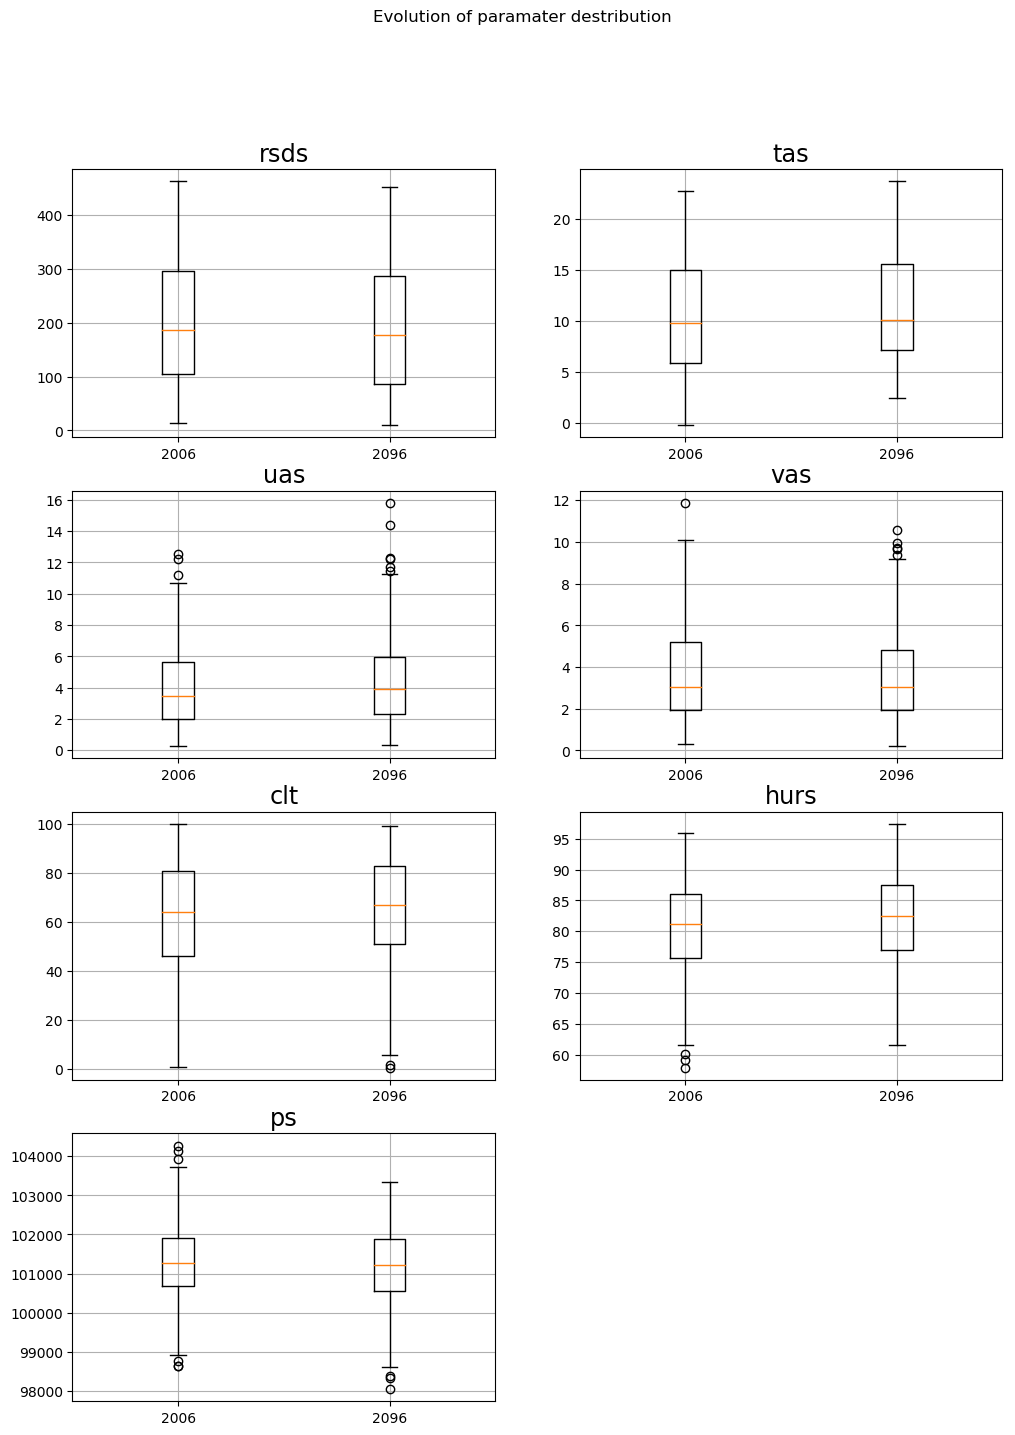
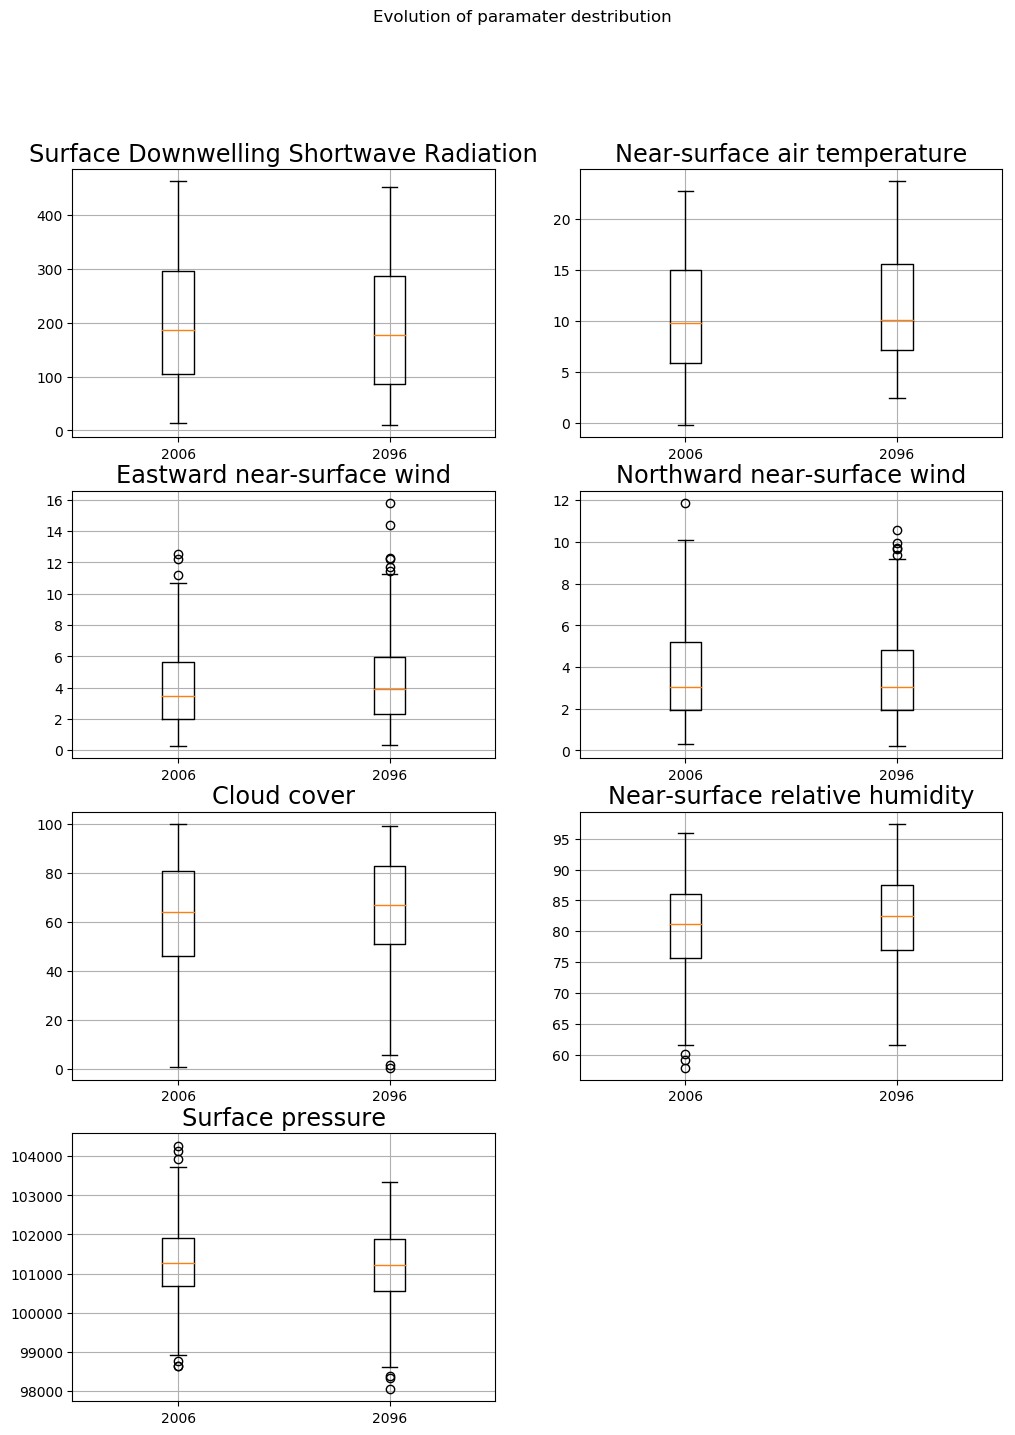
Friday morning update on my pre-analysis (now with seasons)

diff --git a/Simon/Pre_analysis.py b/Simon/Pre_analysis.py
@@ -23,15 +23,45 @@ def YearlyAverage(Data):
             st = st+365
         AvDataLst.append(SubAv)
     AvData = np.stack(AvDataLst,axis = 0)
-    print(st)
     return AvData
+
 def DevideInSeasons(Data):
     Winter = []
     Spring = []
     Summer = []
+    Autumn = []
+    
+    st = 0
+    for i in range(91):
+        if i%4 == 2:
+            Winter.append(Data[st:st+80,:,:,:,:])
+            Spring.append(Data[st+80:st+172,:,:,:])
+            Summer.append(Data[st+172:st+266,:,:,:])
+            Autumn.append(Data[st+266:st+356,:,:,:])
+            Winter.append(Data[st+356:st+366,:,:,:])
+            st = st + 366
+        else:
+            Winter.append(Data[st:st+79,:,:,:,:])
+            Spring.append(Data[st+79:st+171,:,:,:])
+            Summer.append(Data[st+171:st+265,:,:,:])
+            Autumn.append(Data[st+265:st+355,:,:,:])
+            Winter.append(Data[st+355:st+365,:,:,:])
+            st = st + 365
+    Wi = np.concatenate(Winter,axis = 0)
+    Sp = np.concatenate(Spring,axis = 0)
+    Su = np.concatenate(Summer,axis = 0)
+    Au = np.concatenate(Autumn,axis = 0)
+    return [Wi,Sp,Su,Au]
+
     
 var= 1
-VARIABLES = ['rsds','tas','uas','vas','clt','hurs','ps']
+VARIABLES = ['Surface Downwelling Shortwave Radiation',
+             'Near-surface air temperature',
+             'Eastward near-surface wind',
+             'Northward near-surface wind',
+             'Cloud cover',
+             'Near-surface relative humidity',
+             'Surface pressure']
 """
 0 rsds - Surface Downwelling Shortwave Radiation
 1 tas - near surface air temperature
@@ -72,36 +102,74 @@ MODELS = ['CNRM-CERFACS-CNRM-CM5','ICHEC-EC-EARTH', 'IPSL-IPSL-CM5A-MR','MOHC-Ha
 exp = 0
 EXPERIMENTS = ['rcp45','rcp85']
 
+
 YA = YearlyAverage(Data)
-fig = plt.figure(1, figsize=(12,12))
-ax1 = fig.add_subplot(211)
-ax2 = fig.add_subplot(212)
-for i in range(5):
-    ax1.plot(list(range(2006,2097)),YA[:,var,st,i,0], 'o', label = MODELS[i])
-    ax2.plot(list(range(2006,2097)),YA[:,var,st,i,1], 'o', label = MODELS[i])
-ax1.legend()
-ax1.set_xlabel('time [years]')
-ax2.set_xlabel('time [years]')
-plt.subplot(211)
-plt.grid(True)
-plt.title(EXPERIMENTS[0])
-plt.subplot(212)
-plt.grid(True)
-plt.title(EXPERIMENTS[1])
-fig.suptitle('Temperature evolution according to different models')
-
-fig.savefig('DATA_EXPLORATION_temperature_evolution_models.png', bbox_inches='tight')
-
-fig = plt.figure(2, figsize = (12,16))
-fig.suptitle('Evolution of paramater destribution')
-
-
-for i in range(7):
-    ax = fig.add_subplot(4,2,i+1)
+[Wi,Sp,Su,Au] = DevideInSeasons(Data)
+PLT = True
+if PLT == True:
+    fig = plt.figure(1, figsize=(12,12))
+    ax1 = fig.add_subplot(211)
+    ax2 = fig.add_subplot(212)
+    for i in range(5):
+        ax1.plot(list(range(2006,2097)),YA[:,var,st,i,0], 'o', label = MODELS[i])
+        ax2.plot(list(range(2006,2097)),YA[:,var,st,i,1], 'o', label = MODELS[i])
+    ax1.legend()
+    ax1.set_xlabel('time [years]')
+    ax2.set_xlabel('time [years]')
+    plt.subplot(211)
     plt.grid(True)
-    ax.boxplot([Data[0:365,i,st,mdl,exp],Data[-365:,i,st,mdl,exp]],labels = [2006, 2096])
-    plt.title(VARIABLES[i],size = 'xx-large')
-fig.savefig('DATA_EXPLORATION_evolution_spread.png', bbox_inches='tight')
+    plt.title(EXPERIMENTS[0])
+    plt.subplot(212)
+    plt.grid(True)
+    plt.title(EXPERIMENTS[1])
+    fig.suptitle('Temperature evolution according to different models')
+    
+    fig.savefig('DATA_EXPLORATION_temperature_evolution_models.png', bbox_inches='tight')
+    
+    fig = plt.figure(2, figsize = (12,16))
+    fig.suptitle('Evolution of paramater destribution')
+    
+    
+    for i in range(7):
+        ax = fig.add_subplot(4,2,i+1)
+        plt.grid(True)
+        ax.boxplot([Data[0:365,i,st,mdl,exp],Data[-365:,i,st,mdl,exp]],labels = [2006, 2096])
+        plt.title(VARIABLES[i],size = 'xx-large')
+    fig.savefig('DATA_EXPLORATION_evolution_spread.png', bbox_inches='tight')
+    
+    
+    fig = plt.figure(3, figsize = (30,16))
+    fig.suptitle('Evolution of paramater destribution per season',size = 'xx-large')
+
+    LAB = ['Winter 2006','Winter 2096',
+           'Spring 2006','Sprint 2096',
+           'Summer 2006','Summer 2096',
+           'Autumn 2006','Autumn 2096']
+    for i in range(7):
+        ax = fig.add_subplot(4,2,i+1)
+        DAT = [Wi[:91,i,st,mdl,exp],Wi[-91:,i,st,mdl,exp],
+               Sp[:91,i,st,mdl,exp],Sp[-91:,i,st,mdl,exp],
+               Su[:91,i,st,mdl,exp],Su[-91:,i,st,mdl,exp],
+               Au[:91,i,st,mdl,exp],Au[-91:,i,st,mdl,exp]]
+        plt.title(VARIABLES[i],size = 'xx-large')
+        plt.grid(True)
+        ax.boxplot(DAT,labels = LAB)
+    fig.savefig('DATA_EXPLORATION_evolution_season_spread.png', bbox_inches='tight')
+    
+    
+    fig = plt.figure(4, figsize = (16,16))
+    fig.suptitle('Paramater destribution per season',size = 'xx-large')
+    LAB = ['Winter','Spring ','Summer','Autumn']
+    
+    for i in range(7):
+        ax = fig.add_subplot(4,2,i+1)
+        DAT = [Wi[:,i,st,mdl,exp],Sp[:,i,st,mdl,exp],
+               Su[:,i,st,mdl,exp],Au[:,i,st,mdl,exp]]
+        plt.title(VARIABLES[i],size = 'xx-large')
+        plt.grid(True)
+        ax.boxplot(DAT,labels = LAB)
+    fig.savefig('DATA_EXPLORATION_season_spread.png', bbox_inches='tight')
+
 
 #for i in range(len(STATIONS)):
 #    SelectedData = Data[:,var,i,mdl,exp]
@@ -122,3 +190,4 @@ fig.savefig('DATA_EXPLORATION_evolution_spread.png', bbox_inches='tight')
 #
 ## Save the figure
 #fig.savefig('fig1.png', bbox_inches='tight')
+    
